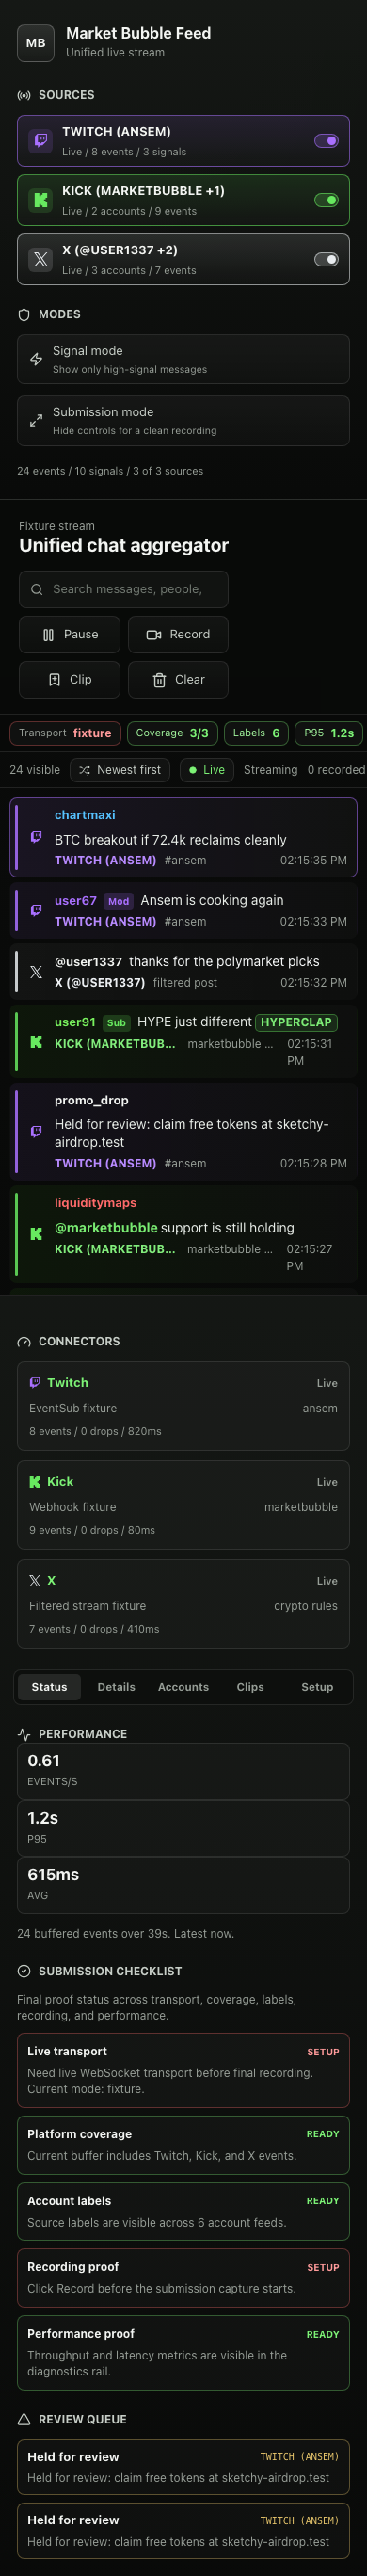
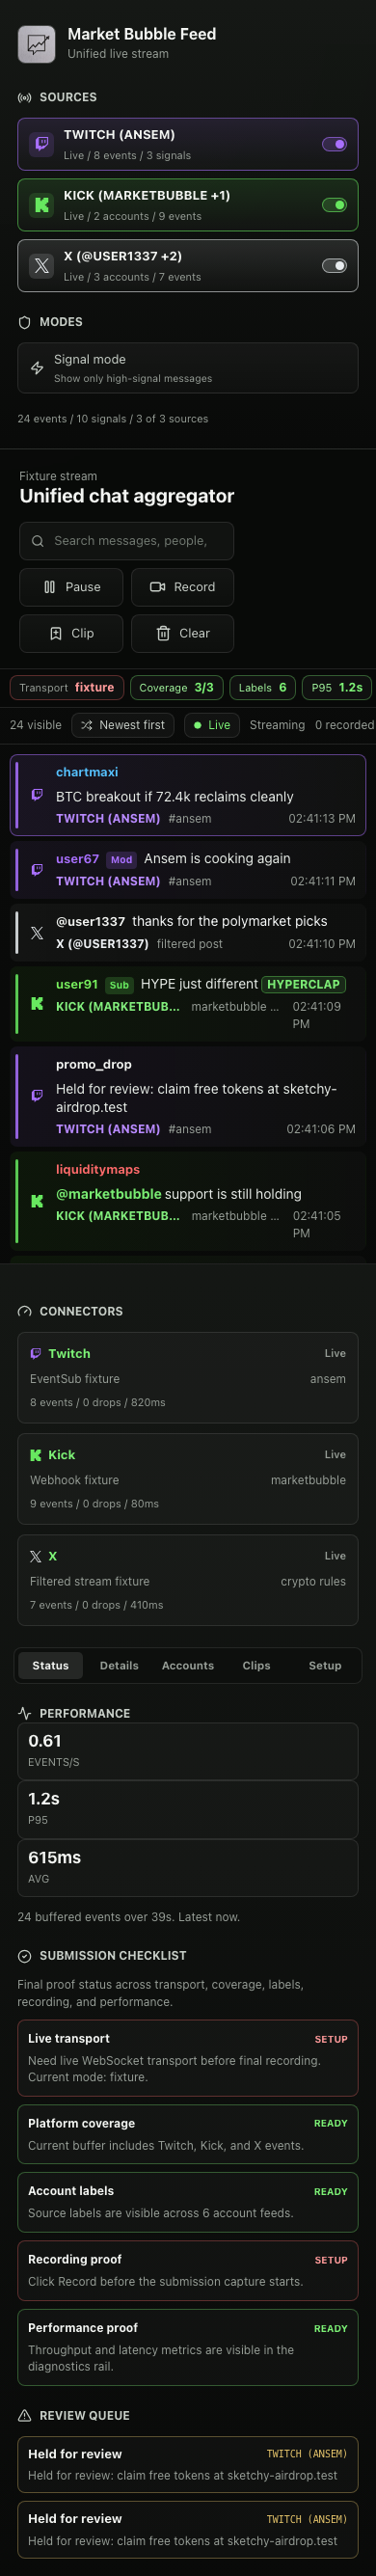
Add user guide with OBS setup and refresh screenshots

diff --git a/docs/user-guide.md b/docs/user-guide.md
@@ -1,0 +1,183 @@
+# User Guide
+
+Everything you need to run the Market Bubble Feed: what each part of the screen does, how to go live with real chat, and how to put the feed on stream with OBS.
+
+![Dashboard](images/dashboard.png)
+
+## What this app does
+
+It merges Twitch chat, Kick chat, and X posts into one live feed. Every message keeps its platform logo, its platform color, and an account label such as `TWITCH (ANSEM)` or `KICK (MARKETBUBBLE)`, so you always know where a message came from. You can search, filter, clip the best moments, record the session, and overlay the feed on a stream through OBS.
+
+## Start it in 60 seconds
+
+```bash
+npm install
+npm run dev
+```
+
+Open `http://127.0.0.1:5173/`. The app starts in demo mode with realistic sample messages, so every feature below works immediately with no accounts and no credentials.
+
+## The screen, piece by piece
+
+The dashboard has three areas: sources on the left, the feed in the middle, and tools on the right.
+
+### Left side: sources and modes
+
+- **Twitch / Kick / X toggles**: click to hide or show that platform in the feed. The switch shows on or off, and each card shows live event counts.
+- **Signal mode**: shows only high-signal messages (mentions, emote bursts, active authors) and hides ordinary chatter.
+- The line at the bottom shows totals: events, signals, and active sources.
+
+### Middle: the feed
+
+- Newest messages arrive at the top. Each row shows the platform logo, the author, badges like Mod or VIP, the message, the account label, and the time.
+- The colored bar on the left edge of each row is the platform: purple is Twitch, green is Kick, white is X.
+- **Search** matches message text, author names, account names, platforms, and event types. Matches highlight in gold.
+- **Pause / Resume** freezes the feed while you read. **Record** starts capturing events. **Clip** bookmarks the selected message. **Clear** empties the feed.
+- Under the title sits the **Run proof strip**: transport state, platform coverage, label count, latency, recording count, and clip count. It stays visible in every view so a recording always shows the run is real.
+- Scroll down in the feed and the `Live` pill becomes `Jump live`; click it to snap back to the newest messages. `Newest first` flips the order for chronological review.
+
+### Right side: connectors and the five tabs
+
+The connector cards at the top always show each platform's state, mode, account, event count, drops, and latency.
+
+Below them, five tabs:
+
+- **Status**: performance numbers (events per second, p95 latency, average latency) and the submission checklist that tracks transport, coverage, labels, recording, and performance proof. The review queue lists held, deleted, or spam-risk messages.
+- **Details**: opens automatically when you click any message. Shows the author profile, badge stack, event counts, raw platform IDs, and two filter buttons to focus the feed on that author or that source account.
+- **Accounts**: every active source account with one-click filters, plus identities that group the same account name across platforms, such as `TWITCH (ANSEM)` and `KICK (ANSEM)`.
+- **Clips**: the clip queue, saved sessions, and every import/export action.
+- **Setup**: live-readiness for each platform with the exact env values still missing, plus ready-to-open OBS preset links.
+
+## Everyday actions
+
+**Clip a great message.** Click the message, then click `Clip` in the top bar. It gets a gold border and a CLIP tag, joins the clip queue, survives a page reload, and counts in the proof strip. Export the queue as JSON from the Clips tab.
+
+**Record a session.** Click `Record`. Every event from that moment (plus the current buffer) is captured. Click `Stop`, then export JSON or CSV from the Clips tab.
+
+**Replay a recording.** Clips tab, `Import recording JSON`, pick an exported file. The app switches to replay mode; the top-left label shows the file name. `Exit replay` returns to the live feed.
+
+**Share a moment.** `Copy replay link` makes a URL that loads the current buffer in replay mode for anyone on the same build.
+
+**Save your buffer.** `Save current buffer` in the Clips tab keeps the session in local storage (latest 12). Load any saved session back as a replay with one click.
+
+## Going live with real chat
+
+Copy the template and fill in only the platforms you need. Any platform without credentials stays in demo mode, so a partial setup still runs.
+
+```bash
+cp .env.example .env
+```
+
+### Twitch
+
+1. Go to the [Twitch developer console](https://dev.twitch.tv/console) and register an application to get a **Client ID**.
+2. Generate a **user access token** with the `user:read:chat` scope (the Twitch CLI or a token generator both work).
+3. Find the numeric user IDs for the broadcaster and for the account that owns the token (any "Twitch username to ID" lookup works).
+
+```ini
+TWITCH_CLIENT_ID=your_client_id
+TWITCH_ACCESS_TOKEN=your_user_token
+TWITCH_BROADCASTER_USER_ID=123456
+TWITCH_BOT_USER_ID=654321
+TWITCH_BROADCASTER_LOGIN=marketbubble
+```
+
+### Kick
+
+Kick delivers chat through webhooks, so Kick needs a public URL that reaches your machine.
+
+1. In a separate terminal, start a tunnel to the local receiver:
+
+```bash
+cloudflared tunnel --url http://127.0.0.1:8788
+# or: ngrok http 8788
+```
+
+2. Put the public URL it prints into `.env`, ending in `/webhooks/kick`:
+
+```ini
+KICK_WEBHOOK_ENABLED=true
+KICK_WEBHOOK_PUBLIC_URL=https://your-tunnel-host/webhooks/kick
+KICK_BROADCASTER_SLUG=marketbubble
+```
+
+3. In the [Kick developer settings](https://kick.com/settings/developer), point your app's webhook at that same public URL and subscribe to `chat.message.sent`. To let the feed server subscribe automatically on startup, also set `KICK_ACCESS_TOKEN`, `KICK_BROADCASTER_USER_ID`, and `KICK_SUBSCRIBE_ON_START=true`.
+
+### X
+
+1. In the [X developer portal](https://developer.x.com), create a project and copy the **Bearer Token**. Filtered stream access requires a plan tier that includes it.
+
+```ini
+X_BEARER_TOKEN=your_bearer_token
+X_FILTER_RULES=from:marketbubble,Market Bubble,marketbubble
+X_SPACES_QUERY=Market Bubble
+```
+
+### Start the live stack
+
+```bash
+npm run preflight        # tells you exactly what is still missing
+npm run feed             # starts the feed server on ws://127.0.0.1:8787
+VITE_FEED_WS_URL=ws://127.0.0.1:8787 npm run dev
+```
+
+The top-left label switches from `Fixture stream` to `Live feed server`, the connector cards go live, and the Setup tab clears. The feed server also archives every event to `data/feed-sessions/` and to SQLite, so the session has durable proof even if the browser reloads.
+
+One thing to know: the QA gates (`npm run qa:quick`, `npm run qa:final`) rehearse in demo mode. Run them before filling `.env`, or temporarily rename `.env`, because live credentials switch the rehearsal servers into connector mode.
+
+## Connecting to OBS
+
+The app has a built-in overlay route made for OBS browser sources. It hides every control and uses a transparent page background, so only the chat rows appear over your scene.
+
+![OBS overlay](images/obs-overlay.png)
+
+### Add the browser source
+
+1. Start the dashboard (`npm run dev`, plus `npm run feed` if you are live).
+2. In OBS: **Sources, click +, Browser**. Name it `Unified Chat - All Sources`.
+3. Use these settings:
+
+| Setting | Value |
+| --- | --- |
+| URL | `http://127.0.0.1:5173/?obs=1&sources=twitch,kick,x&limit=14` |
+| Width | 1280 |
+| Height | 720 |
+| FPS | 30 |
+| Custom CSS | `body { background: rgba(0, 0, 0, 0); overflow: hidden; }` |
+| Shutdown source when not visible | off |
+| Refresh browser when scene becomes active | off |
+
+4. Click OK. Chat rows appear over your scene with platform logos and account labels. Resize and place the source like any other overlay.
+
+### Overlay variations
+
+Change the URL parameters to shape the shot:
+
+| Overlay | URL |
+| --- | --- |
+| All three platforms | `/?obs=1&sources=twitch,kick,x&limit=14` |
+| Twitch and Kick only | `/?obs=1&sources=twitch,kick&limit=12` |
+| One account focus | `/?obs=1&sources=twitch&limit=8&q=ansem` |
+| High-signal only | `/?obs=1&signal=1&limit=10` |
+
+- `sources` picks platforms, `q` pre-fills the search, `signal` shows only high-signal messages, and `limit` caps visible rows.
+- The same links are ready to copy in the dashboard's **Setup tab** under OBS presets.
+- To generate a full OBS setup file with every preset and these exact settings, run `npm run obs:handoff -- --out qa/obs` and open `qa/obs/obs-browser-sources.md`.
+
+## Troubleshooting
+
+| Problem | Fix |
+| --- | --- |
+| Feed shows no messages | Check the source toggles are on and the search box is empty. The empty state says exactly which one to fix. |
+| Top-left says `Fixture stream` when you expected live | The dashboard was started without `VITE_FEED_WS_URL`. Restart it with `VITE_FEED_WS_URL=ws://127.0.0.1:8787 npm run dev`. |
+| A connector card is not `live` | Run `npm run preflight`. It lists the exact missing env values, and the Setup tab shows the same checklist with copy-ready names. |
+| Kick messages never arrive | The tunnel is down or the webhook URL is wrong. `npm run live:tunnel` verifies the public URL reaches your local receiver. |
+| OBS shows a black box instead of transparency | Re-add the Custom CSS line from the table above; it sets the transparent background. |
+| OBS shows a stale or frozen feed | Right-click the browser source and pick `Refresh`, or toggle the source off and on. |
+| Feed stopped moving | You scrolled into history or hit Pause. Click `Jump live` or `Resume`. |
+| Port already in use | Another copy is running. Stop it, or pass different ports: `npm run dev -- --port 5180` and `FEED_SERVER_PORT=8790 npm run feed`. |
+
+## Full references
+
+- [Operations Reference](operations.md): every live-run, proof gate, archive, and bundle command.
+- [Submission Runbook](submission-runbook.md): the stream-day checklist from preflight to final bundle.

diff --git a/docs/winning-strategy.md b/docs/winning-strategy.md
@@ -43,7 +43,7 @@ The app should support a clean recording workflow:
 
 1. Open the dashboard.
 2. Start recording.
-3. Toggle submission mode to hide operator rails.
+3. Use the OBS route at `/?obs=1` for the clean capture layout without operator rails.
 4. Let the live or fixture feed run.
 5. Export recording JSON for proof/replay.
 6. Capture a screen recording for the challenge submission.

diff --git a/README.md b/README.md
@@ -96,6 +96,7 @@ npm run build
 
 ## Docs
 
+- [User Guide](docs/user-guide.md) for the full walkthrough: every control, going live, and OBS setup
 - [Operations Reference](docs/operations.md) for every live-run, proof, and archive command
 - [Submission Runbook](docs/submission-runbook.md) for the stream-day checklist
 - [Architecture Plan](docs/architecture-plan.md)